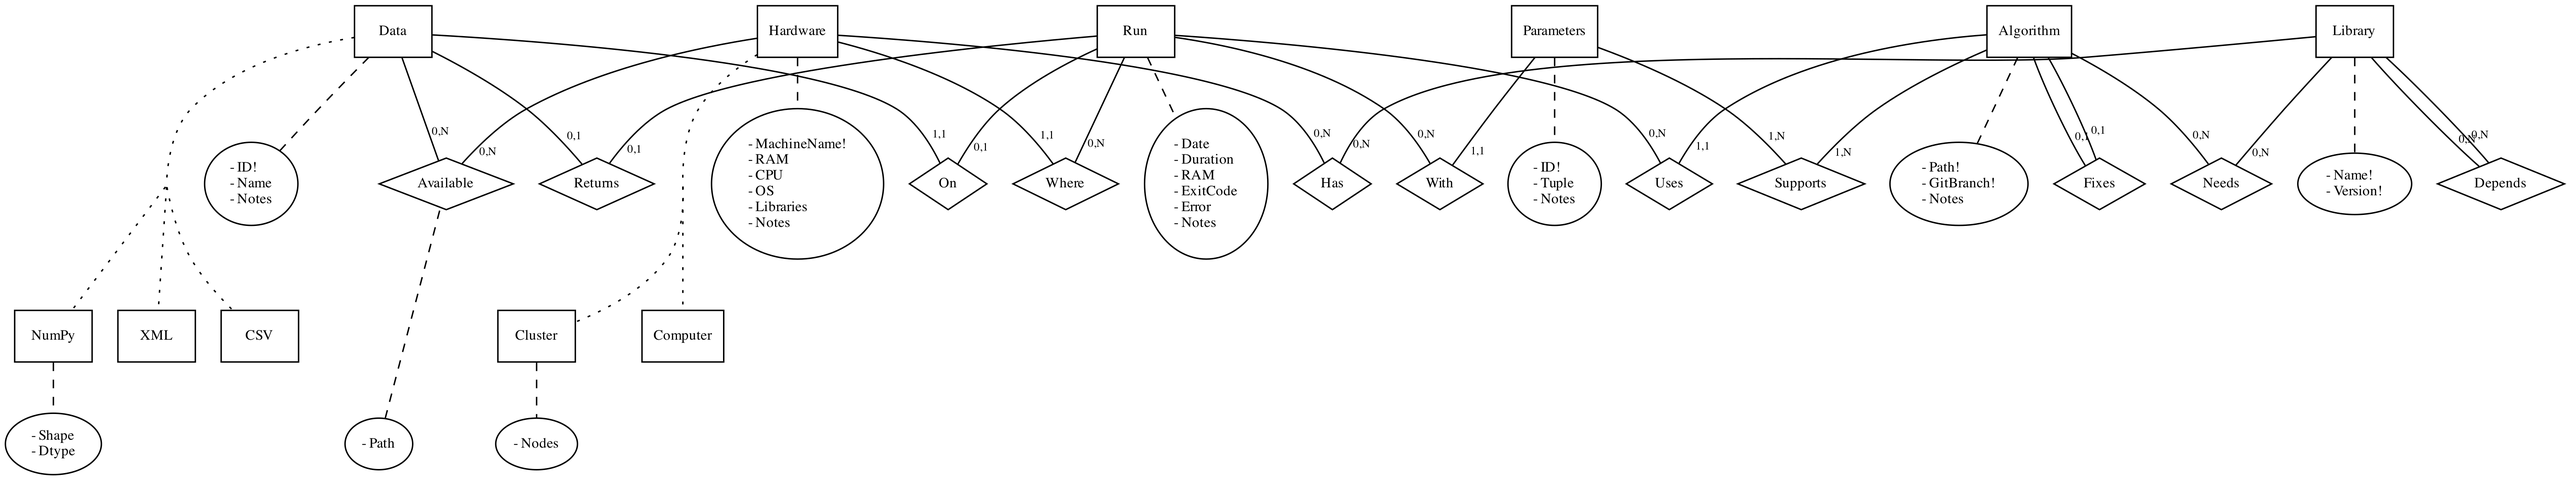
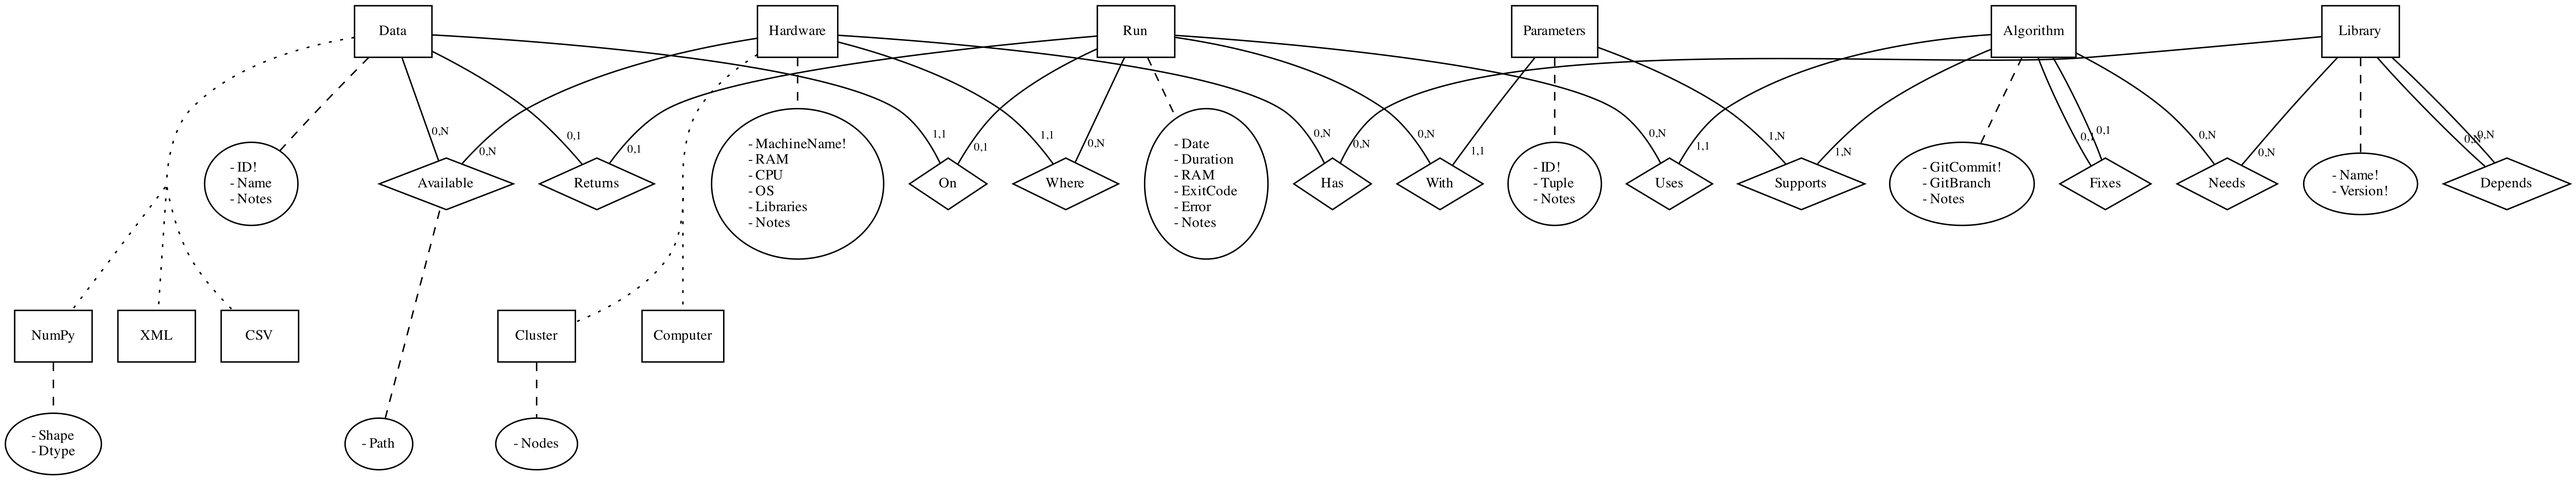
algorithm is identified by commit

diff --git a/descrizione.tex b/descrizione.tex
@@ -52,7 +52,7 @@ Viene fornita una descrizione sintetica delle entità, delle relazioni e degli a
 \begin{itemize}
     \item \fbox{Algorithm}: L'implementazione di un particolare metodo sperimentato, nella pratica le istanze di \fbox{Algorithm} possono differire di poco, ma non tenteremo alcuna associazione visto che in diversi ambiti un piccolo cambiamento porta a risultati molto diversi. Per questo motivo diverse versioni di uno stesso algoritmo sono considerate come algoritmi differenti.
 
-    Un algoritmo è localizzato da un \emph{Path} e da una \emph{GitBranch}: supporremmo infatti che sia tutti gli algoritmi siano registrati in un VCS e condivisi con questo metodo tra le varie macchine.
+    Ogni algoritmo viene implementato in una specifica \emph{branch}, lo script necessario per il lancio deve trovarsi in un percorso ben specificato dalla root del repository (ad esempio \texttt{src/launchscript.py}). Le entità di tipo \fbox{Algorithm} inoltre sono identificate dal codice corrispondente ad una \emph{commit}.
 
     E' possibile utilizzare la relazione \emph{Fixes} tra due istanze di \fbox{Algorithm} per evidenziare il fatto che uno è una versione successiva dell'altro. Inoltre la relazione \emph{Needs} consente di specificare eventuali librerie non standard (sotto forma di istanze di \fbox{Library}) necessarie per l'esecuzione dell'algoritmo.
     \item \fbox{Parameters}: Ogni riga contiene una tupla univoca di interi che rappresenta una possibile lista di parametri di un algoritmo, come specificato nella Sezione \ref{sec:ipotesi}. Non tutte le tuple di parametri sono supportate da tutti gli algoritmi, dato che alcuni possono richiedere un numero inferiore o superiore di parametri a seconda del metodo che implementano. Per questo motivo è stata aggiunta la relazione \emph{Supports}.

diff --git a/concettuale2.py b/concettuale2.py
@@ -42,7 +42,7 @@ make_entity('Library')
 make_attributes('Data', ['ID!', 'Name', 'Format', 'Notes'])
 make_attributes('Run', ['Date', 'Duration', 'RAM', 'ExitCode', 'Error', 'Notes'])
 make_attributes('Hardware', ['MachineName!', 'RAM', 'CPU', 'OS', 'Nodes', 'Libraries', 'Notes'])
-make_attributes('Algorithm', ['Path!', 'GitBranch!', 'Parameters', 'Notes'])
+make_attributes('Algorithm', ['GitCommit!', 'Parameters!', 'GitBranch', 'Notes'])
 make_attributes('Library', ['Name!', 'Version!'])
 available_label = make_attributes('Available', ['Path'])
 

diff --git a/concettuale.py b/concettuale.py
@@ -58,7 +58,7 @@ make_attributes('Hardware', ['MachineName!', 'RAM', 'CPU', 'OS', 'Libraries', 'N
 make_attributes('Parameters', ['ID!', 'Tuple', 'Notes'])
 make_attributes('Cluster', ['Nodes'])
 make_attributes('NumPy', ['Shape', 'Dtype'])
-make_attributes('Algorithm', ['Path!', 'GitBranch!', 'Notes'])
+make_attributes('Algorithm', ['GitCommit!', 'GitBranch', 'Notes'])
 make_attributes('Library', ['Name!', 'Version!'])
 available_label = make_attributes('Available', ['Path'], constraint=False)
 
